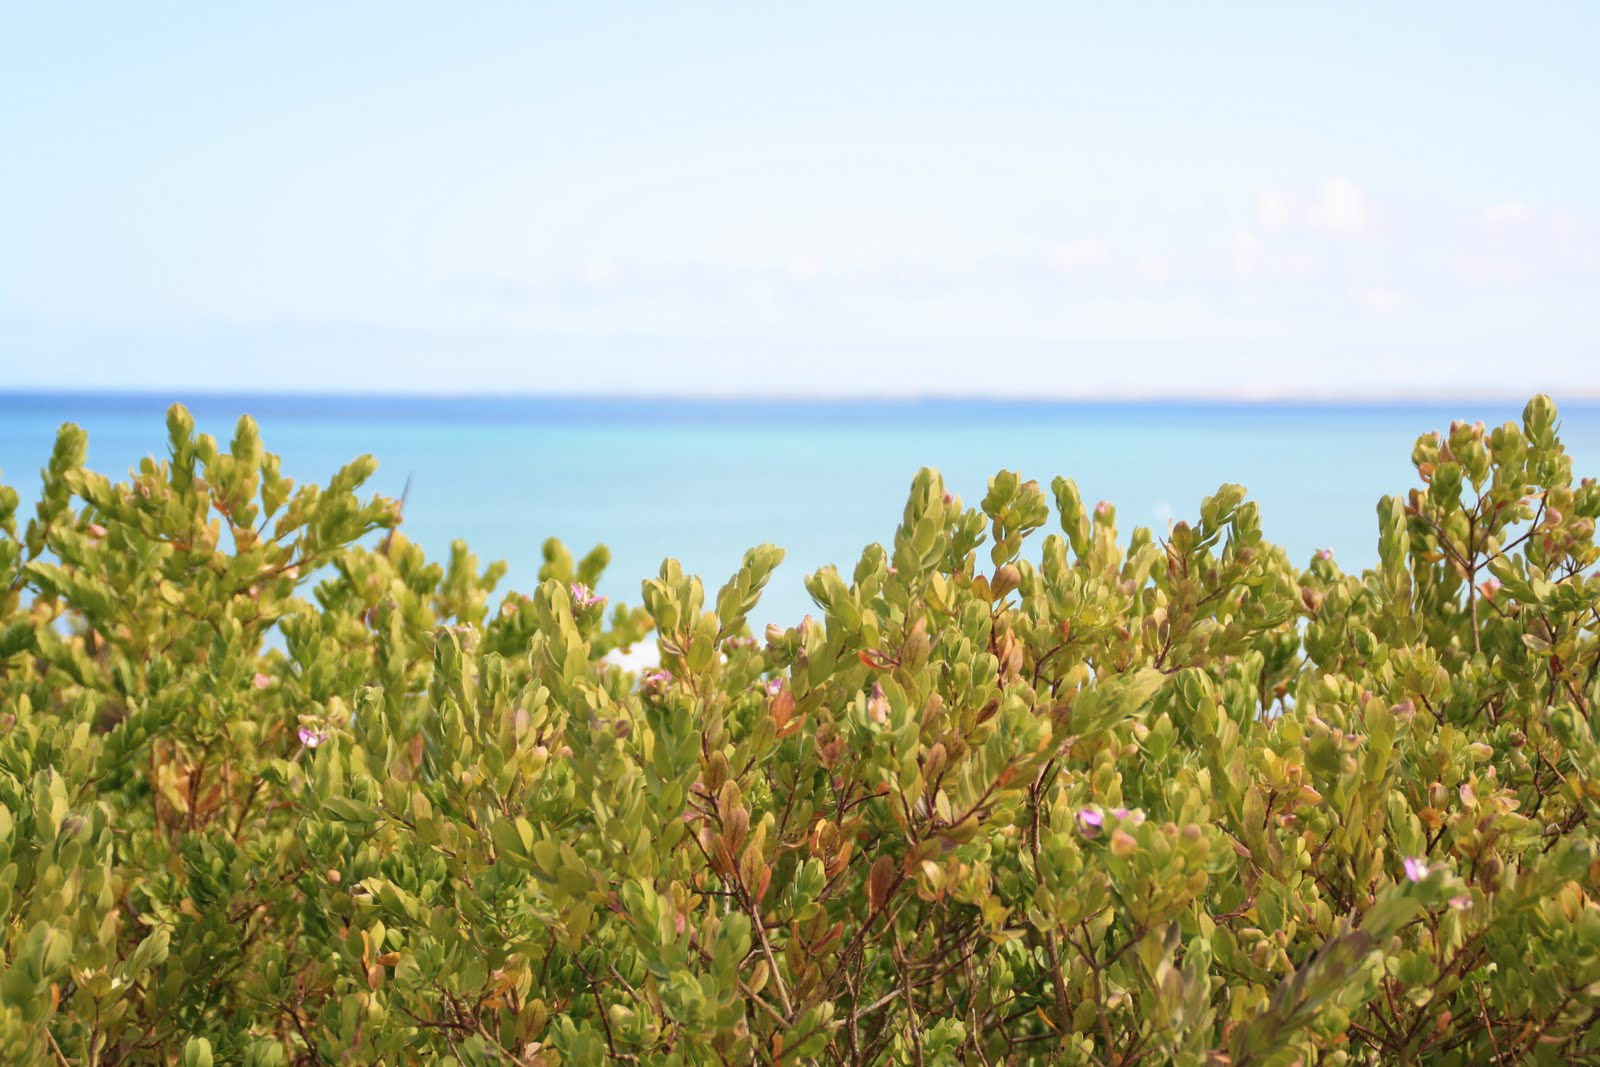
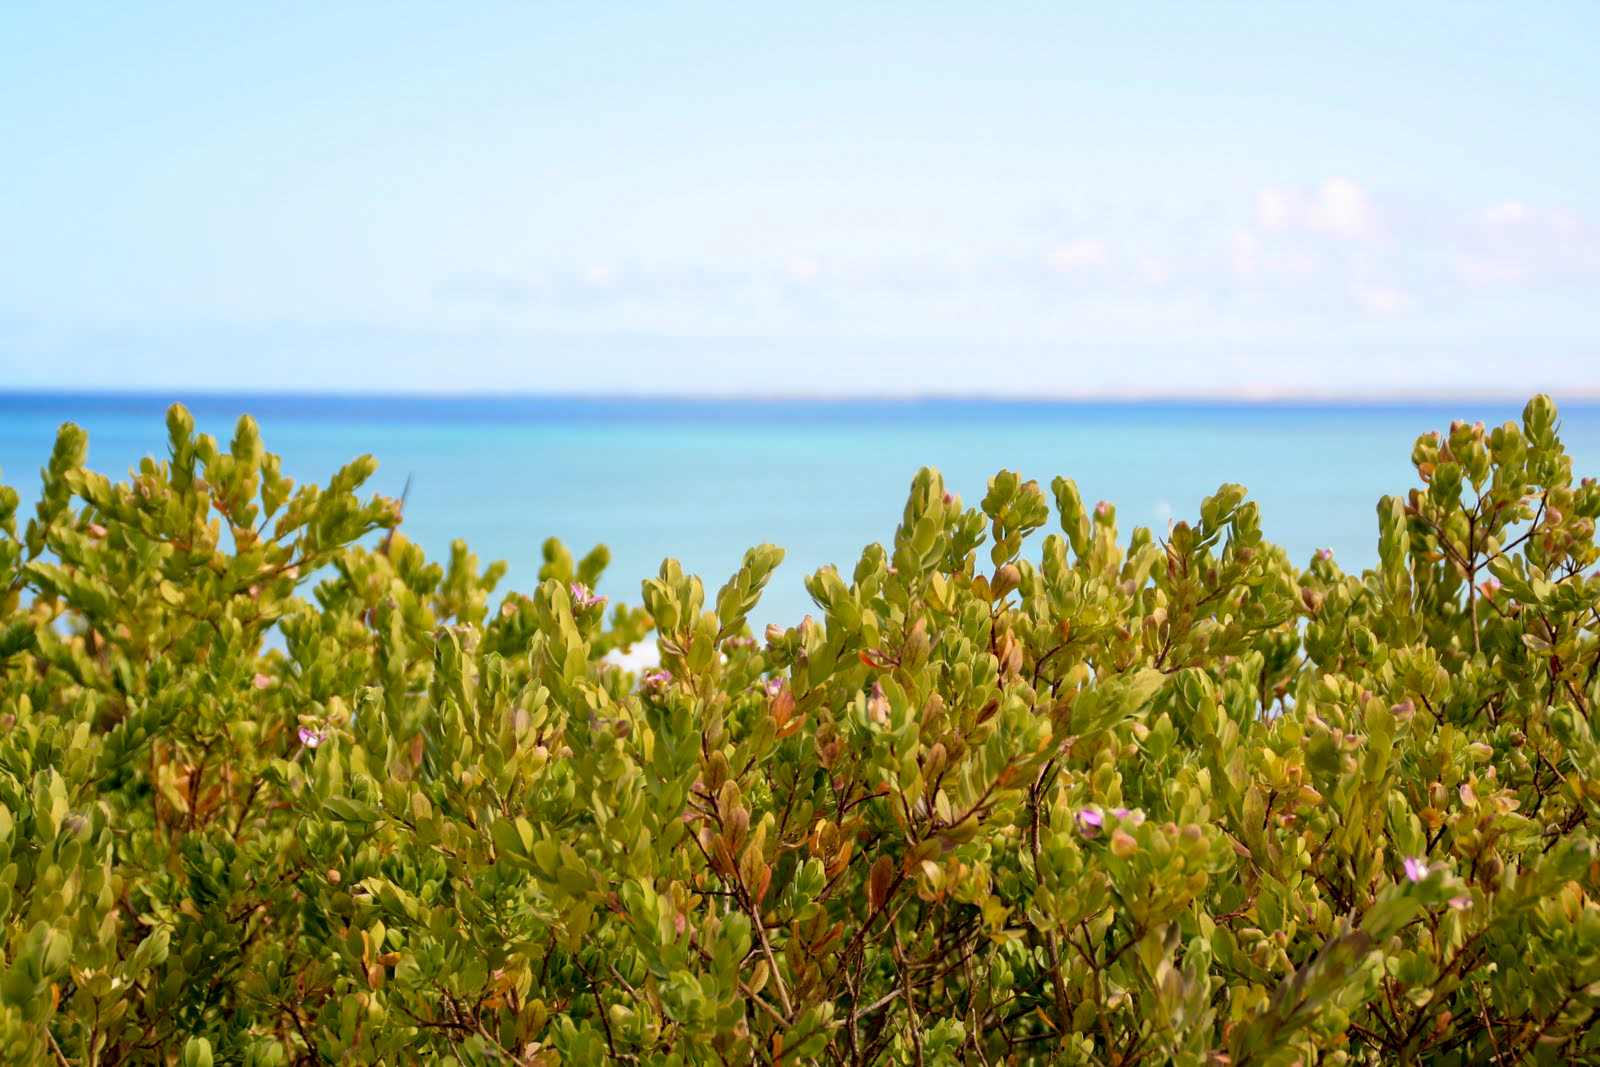
top image brighten

diff --git a/assets/css/style.css b/assets/css/style.css
@@ -70,7 +70,8 @@ h2 {
   margin: 0px 0px;
   margin-top: 4px;
   text-align: center;
-  background-color: rgb(76, 146, 189); 
+  /* background-color: rgb(76, 146, 189);  */
+  background-color: #016FB9;
   color: white;
   font-family: "Crete Round", serif;
 }
@@ -106,11 +107,12 @@ h2 {
   font-size: 25px;
 }
 
-/* Sleeping arrangements text*/
+/* Sub-headings*/
 h5 {
   font-family: "Crete Round", serif;
   font-weight: bold;
   font-size: 1rem;
+   padding-top: 6px;
 }
 
 /* Center collapsed navbar items */
@@ -189,13 +191,15 @@ h5 {
 
 /* Footer */
 #footer {
-  background-color: #3d75a4;
+  /* background-color: #3d75a4; */
+  background-color: #0D2149;
 }
 
 /* Footer container */
 footer .container-fluid {
   color: white;
-  background-color: #3d75a4;
+  /* background-color: #3d75a4; */
+  background-color: #0D2149;
 }
 
 /* Reviews */
@@ -208,7 +212,7 @@ footer .container-fluid {
   background-color: rgba(2, 3, 3, 0.75);
   border-radius: 6px;
   padding: 10px 10px;
-  margin: 8px 6px;
+  margin: 10px 8px;
 }
 
 .blockquote p {
@@ -254,8 +258,8 @@ a:target {
 /* Explore list */
 #explore-list {
   list-style-type: none;
-  text-align: left;
-  /* padding-left: 0px; */
+  /* text-align: left; */
+  padding-left: 0px;
 }
 
 /* Explore list items */
@@ -273,6 +277,10 @@ a:target {
   border: lightslategrey;
 }
 
+#south-australia {
+   padding-bottom: 16px;
+   padding-top: 10px
+}
 #google-map {
    min-height: 260px;
 }
@@ -305,7 +313,8 @@ a:target {
 }
 
 .footer-content a {
-  color: honeydew;
+  /* color: honeydew; */
+  color:white;
 }
 
 /* Reviews */
@@ -334,19 +343,19 @@ a:target {
 }
 
 #footer-text {
-  font-size: 12px;
+  font-size: 13px;
 }
 
 /* Arrow up to top of link */
 .fa-angle-up {
   vertical-align: middle;
-  font-size: 18px;
+  font-size: 26px;
   float: right;
   padding-right: 5px;
 }
 
 .fab {
-  color: whitesmoke;
+  color: white;
   transition: all 0.2s ease-in-out;
   -moz-transition: all 0.2s ease-in-out;
   -webkit-transition: all 0.2s ease-in-out;
@@ -410,7 +419,7 @@ iframe {
     padding-bottom: 0px;
   }
   .col-lg-6 p {
-    font-size: 5vw;
+    font-size: 4.8vw;
   }
   #explore-list li {
     font-size: 16px;
@@ -530,6 +539,9 @@ iframe {
     padding-left: 150px;
     vertical-align: middle;
   }
+  #reviews .row {
+     height: 300px;
+  }
 }
 
 /* Media query applies when Navigation Bar is collapsed (screen sizes less than 992px)  */
@@ -549,8 +561,8 @@ iframe {
   }
 }
 
-/* Used for testing only */
-* {
+/* Used for testing purposes only */
+/* * {
   outline: 1px solid red;
   outline-offset: -1px;
-}
+} */

diff --git a/index.html b/index.html
@@ -256,7 +256,7 @@
 
                <!-- The 2 zoomed out maps of Robe take up 1/2 of the columns available in the parent row on Small Devices and above -->
                <div class="col-sm-6 text-center my-auto">
-                  <img src="assets/img/robe-map-cropped.png" alt="Map of Robe, South Australia" />
+                  <img src="assets/img/robe-map-cropped.png" id="south-australia" alt="Map of Robe, South Australia" />
                </div>
             </div>
          </div>
@@ -469,15 +469,10 @@
                </li>
             </ul>
 
-            <!-- Upward arrow link to go back to start of page -->
-            <a href="#">
-               <i class="fas fa-angle-up"></i>
-            </a>
-
             <!-- Contact -->
             <span id="footer-text"><a href="https://www.bookrobeaccommodation.com.au/accommodation/3"
                   target="_blank">Robe Coastal
-                  Holidays</a><br><a href="tel://+61887682158">+61 887 682 158</a>
+                  Holidays</a><br><a href="tel://+61887682158"><i class="fas fa-phone-alt"></i> +61 887 682 158</a>
             </span><br><br>
          </div>
       </div>
